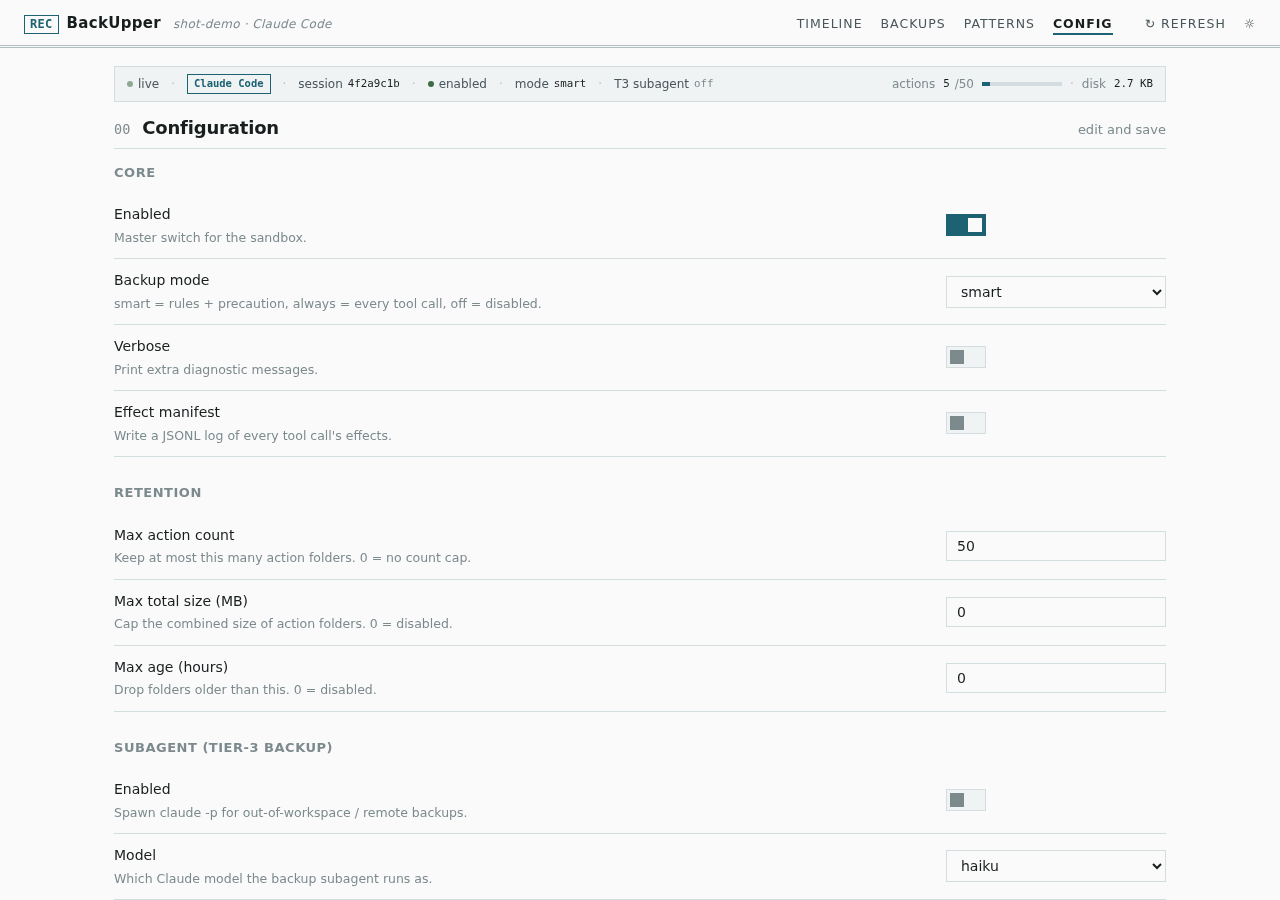
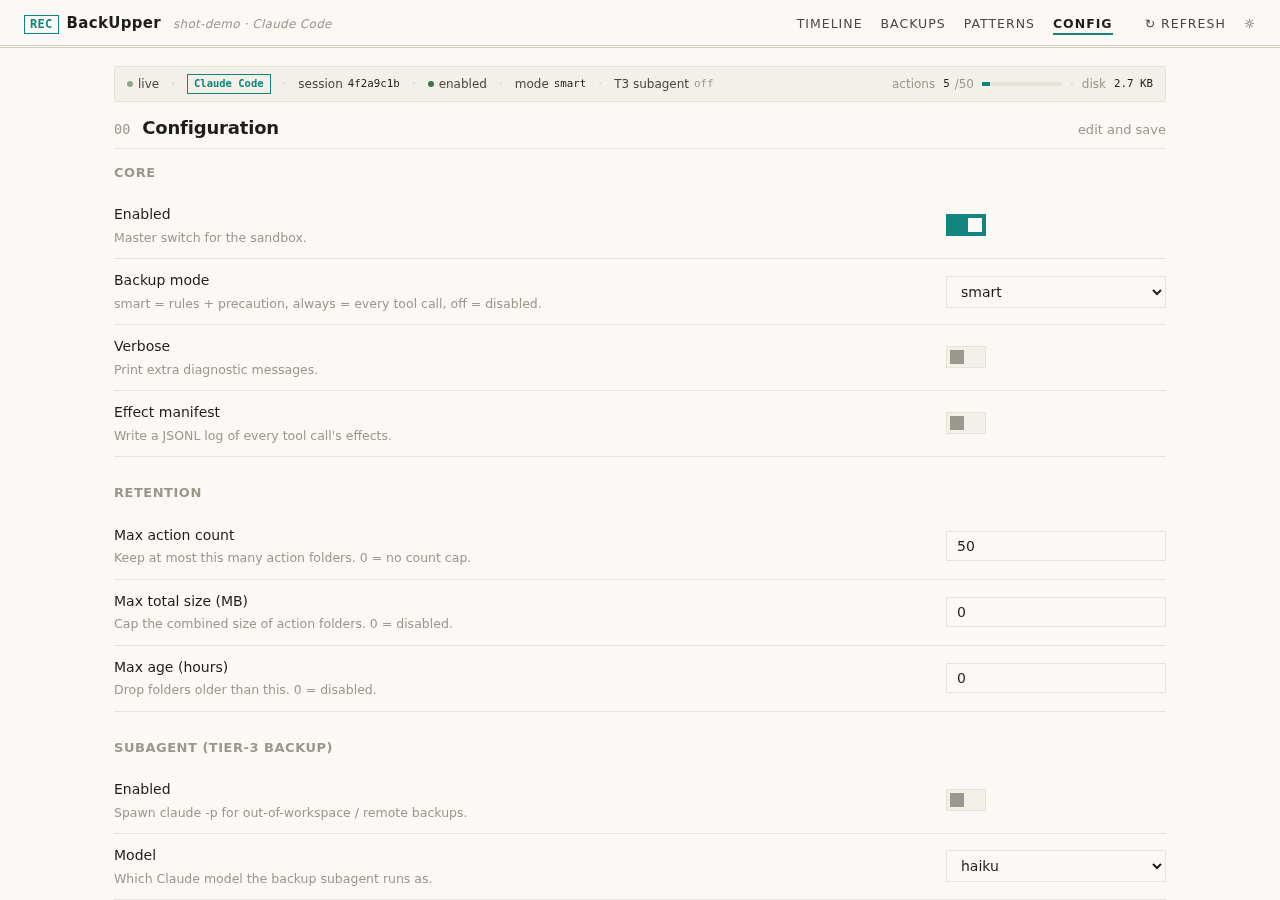
style(dashboard): adopt the human-ai-coevolution site palette
Colors lifted from the lab's human-ai-coevolution.github.io
stylesheet: warm cream paper (#faf9f5 bg, #e6e3d8 lines, warm-gray
ink #1f1d1a/#4a473f/#9a978d) with the site's deep green-teal #12867e
as the accent; dark mode uses their navy-ink #10131a with the
mint-teal #54cfc3 counterpart. T0 amber / T1 sage / T3 slate
re-tuned to sit on the warm ground. Screenshots refreshed.

diff --git a/src/dashboard/static/index.html b/src/dashboard/static/index.html
@@ -25,43 +25,44 @@
        T2 snapshot = terracotta (--t2)
        T3 subagent = slate blue (--t3)  */
 
-  /* Palette matched to the CHATS lab logo (chats-lab): teal disc
-     #4090a0, ink-black linework on off-white #fafafa, gray-blue robot,
-     red used sparingly. Teal = accent/T2, gray-blue = T3, logo red =
-     danger; amber/sage keep T0/T1 distinct. */
+  /* Palette adopted from the CHATS lab's human-ai-coevolution site:
+     warm cream paper (#faf9f5), warm-gray ink, and the lab's deep
+     green-teal #12867e as the accent; dark mode is their navy-ink
+     #10131a with the mint-teal #54cfc3 counterpart. Teal = accent/T2;
+     amber/sage/slate keep T0/T1/T3 distinct. */
   :root, [data-theme="light"] {
-    --bg:         #fafafa;
-    --bg-soft:    #eff3f4;
-    --line:       #d3dcde;
-    --line-strong:#aebec2;
-    --text:       #181d1e;
-    --text-dim:   #48565a;
-    --muted:      #7c8a8e;
-    --accent:     #1d6273;
-    --accent-2:   #4d6e88;
-    --success:    #3e6b44;
-    --warn:       #ad7714;
-    --danger:     #b62d1c;
-    --hover-bg:   #f0f5f6;
+    --bg:         #faf9f5;
+    --bg-soft:    #f2f0e8;
+    --line:       #e6e3d8;
+    --line-strong:#d1cdbf;
+    --text:       #1f1d1a;
+    --text-dim:   #4a473f;
+    --muted:      #9a978d;
+    --accent:     #12867e;
+    --accent-2:   #5c7186;
+    --success:    #45714b;
+    --warn:       #a8740f;
+    --danger:     #b3422e;
+    --hover-bg:   #f5f3ee;
     --t0: var(--warn);
     --t1: var(--success);
     --t2: var(--accent);
     --t3: var(--accent-2);
   }
   [data-theme="dark"] {
-    --bg:         #141a1c;
-    --bg-soft:    #1c2427;
-    --line:       #2e3b3f;
-    --line-strong:#465a60;
-    --text:       #e5ebec;
-    --text-dim:   #a7b8bc;
-    --muted:      #6e8085;
-    --accent:     #44a0b5;
-    --accent-2:   #7fa0bd;
-    --success:    #79a877;
+    --bg:         #10131a;
+    --bg-soft:    #171b24;
+    --line:       #262b38;
+    --line-strong:#3a4153;
+    --text:       #e9e6df;
+    --text-dim:   #b5b1a6;
+    --muted:      #7d7a70;
+    --accent:     #54cfc3;
+    --accent-2:   #8aa3c2;
+    --success:    #84b08a;
     --warn:       #d9a93e;
     --danger:     #d96553;
-    --hover-bg:   #212b2e;
+    --hover-bg:   #1a1f2a;
   }
 
   * { box-sizing: border-box; }
